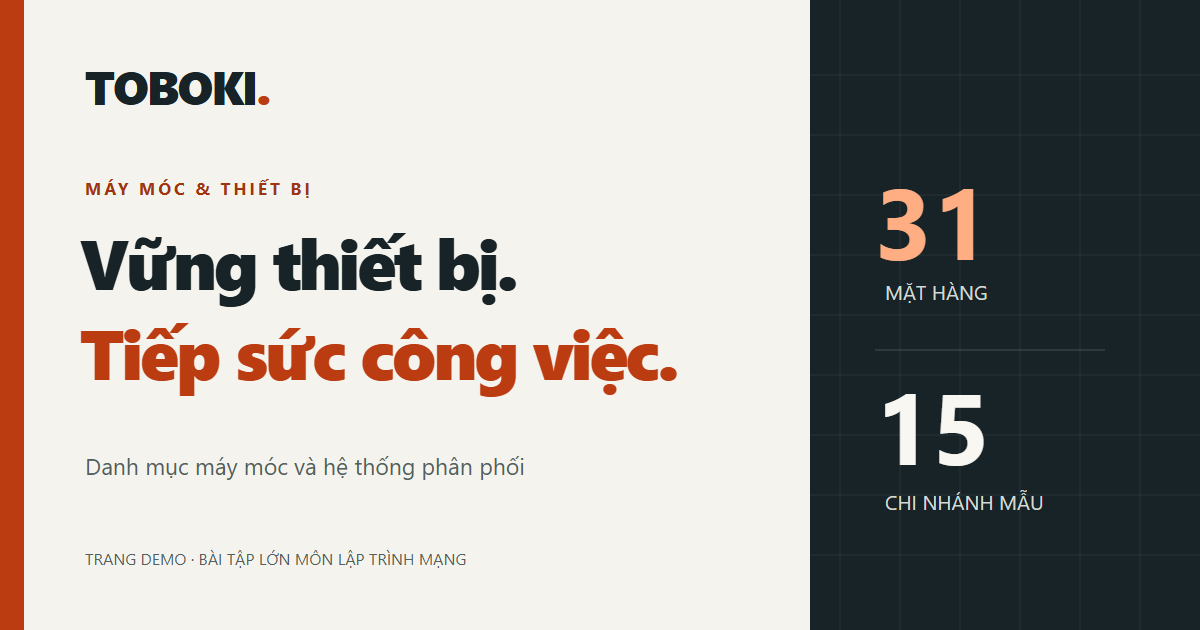
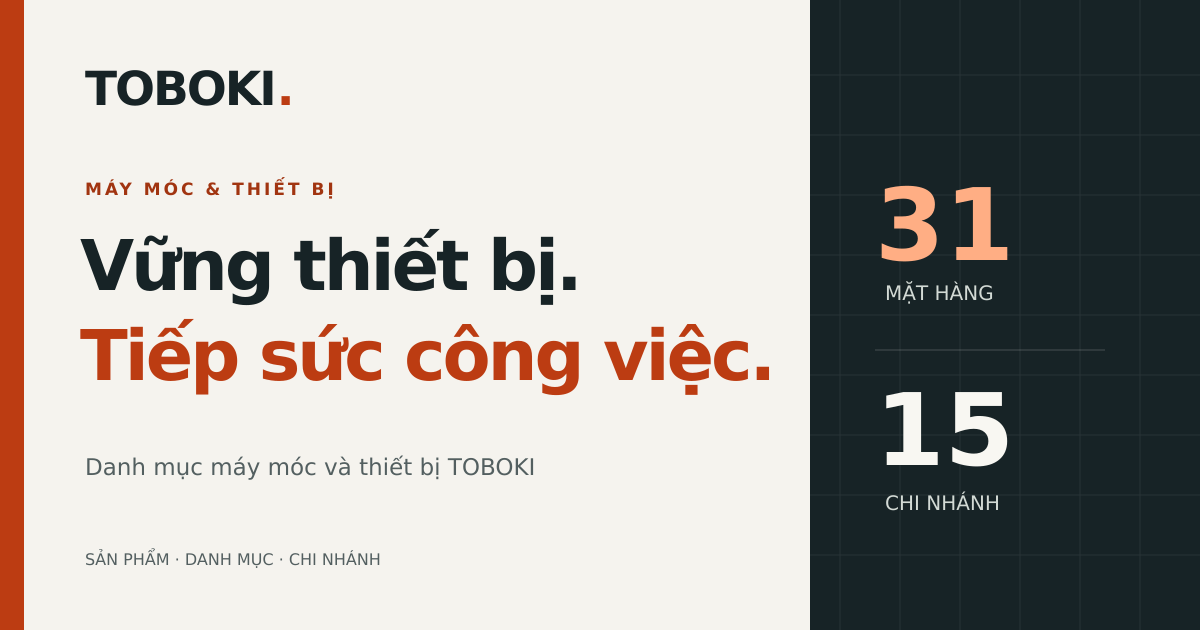
remove some unexceptable sentence

diff --git a/landing/src/index.css b/landing/src/index.css
@@ -29,7 +29,6 @@ section, footer { scroll-margin-top: 24px; }
 .skip-link:focus { top: 1rem; }
 .announcement { color: #f8f6ef; background: #172326; font-size: 10px; font-weight: 600; letter-spacing: .15em; }
 .announcement .page-width { display: flex; justify-content: space-between; gap: 12px; padding-block: 10px; }
-.announcement-note { color: #cbd0ca; letter-spacing: .04em; font-weight: 400; }
 .site-header { background: #fff; border-bottom: 1px solid #e7e8e2; }
 .header-inner { min-height: 94px; display: flex; align-items: center; justify-content: space-between; gap: 32px; }
 .wordmark { color: #172326; font-size: 36px; font-weight: 900; letter-spacing: -.07em; line-height: 1; flex-shrink: 0; }
@@ -59,9 +58,7 @@ section, footer { scroll-margin-top: 24px; }
 .hero-actions { display: flex; flex-wrap: wrap; gap: 22px; align-items: center; margin-top: 30px; }
 .text-link { display: inline-flex; align-items: center; gap: 12px; font-size: 12px; font-weight: 700; padding-block: 12px; }
 .text-link:hover { color: #bc3c12; text-decoration: underline; text-underline-offset: 5px; }
-.hero-footnote { margin-top: 28px; display: flex; align-items: center; gap: 8px; font-size: 10px; color: #5b6665; }
-.status-dot { display: inline-block; width: 6px; height: 6px; background: #bc3c12; border-radius: 50%; flex-shrink: 0; }
-.hero-visual { position: relative; min-height: 470px; background: #e6e8df; overflow: hidden; border-radius: 5px; }
+.hero-visual { position: relative; min-height: 470px; padding-bottom: 22px; background: #e6e8df; overflow: hidden; border-radius: 5px; }
 .hero-grid { position: absolute; inset: 0; background-image: linear-gradient(#87918420 1px, transparent 1px), linear-gradient(90deg, #87918420 1px, transparent 1px); background-size: 36px 36px; }
 .hero-backdrop-letter { position: absolute; inset: -90px 0 auto; text-align: center; font-size: 520px; font-weight: 900; line-height: 1.2; color: #c4cbbc90; }
 .visual-topline { position: relative; display: flex; justify-content: space-between; padding: 23px; color: #4a574c; font-size: 9px; letter-spacing: .12em; font-weight: 600; }
@@ -78,8 +75,6 @@ section, footer { scroll-margin-top: 24px; }
 .carousel-controls button:hover { background: #172326; border-color: #172326; color: #fff; }
 .carousel-previous svg { transform: rotate(180deg); }
 .slide-counter { font-variant-numeric: tabular-nums; }
-.hero-visual-footer { position: relative; display: flex; justify-content: space-between; gap: 8px; padding: 14px 23px 18px; font-size: 9px; color: #535f54; }
-.hero-visual-footer a { text-decoration: underline; text-underline-offset: 3px; }
 .section { padding-block: 84px; }
 .section-heading { display: flex; align-items: flex-end; justify-content: space-between; gap: 32px; margin-bottom: 34px; }
 .section-heading h2 { font-size: clamp(30px, 3.1vw, 43px); line-height: 1.15; letter-spacing: -.045em; font-weight: 750; margin: 0; }
@@ -122,34 +117,10 @@ section, footer { scroll-margin-top: 24px; }
 .product-price { margin-top: auto; }
 .product-price > span { display: block; color: #626c65; font-size: 9px; margin-bottom: 4px; }
 .product-price strong { display: block; font-size: 21px; font-weight: 750; letter-spacing: -.035em; }
-.product-credit { display: block; font-size: 9px; color: #68716a; margin-top: 15px; border-top: 1px solid #edf0e8; padding-top: 11px; line-height: 1.6; }
-.product-credit:hover { color: #a13410; text-decoration: underline; }
 .catalog-more { text-align: center; margin-top: 32px; }
-.catalog-note { max-width: 760px; margin: 22px auto 0; font-size: 10px; line-height: 1.8; color: #606a64; text-align: center; }
 .image-fallback { display: flex; flex-direction: column; height: 100%; align-items: center; justify-content: center; color: #43504a; }
 .image-fallback span { font-weight: 900; font-size: 22px; }
 .image-fallback small { font-size: 9px; margin-top: 6px; }
-.distribution-section { background: #172326; color: #f8f7f2; padding-block: 78px; }
-.distribution-section .eyebrow { color: #ffae84; }
-.distribution-top { display: grid; grid-template-columns: 1.2fr 1fr; gap: 80px; align-items: flex-end; }
-.distribution-top h2 { font-size: clamp(30px, 3.2vw, 44px); line-height: 1.2; letter-spacing: -.035em; font-weight: 750; margin: 0; }
-.distribution-top h2 span { color: #ffae84; }
-.distribution-top > p { font-size: 14px; line-height: 1.9; color: #bfc7c4; margin: 0 0 4px; max-width: 400px; }
-.system-stats { display: grid; grid-template-columns: repeat(3, 1fr); padding-block: 35px; margin-block: 35px 38px; border-block: 1px solid #ffffff26; }
-.system-stats > div { padding-left: 40px; border-left: 1px solid #ffffff26; }
-.system-stats > div:first-child { padding-left: 0; border: none; }
-.system-stats strong { font-size: 54px; font-weight: 650; line-height: 1.1; letter-spacing: -.05em; display: block; margin-bottom: 10px; }
-.system-stats strong span { font-size: 25px; color: #ffae84; padding-left: 10px; vertical-align: top; }
-.system-stats strong small { font-size: 27px; color: #ffae84; }
-.system-stats > div > span { font-size: 11px; color: #bfc7c4; }
-.distribution-flow { display: grid; grid-template-columns: repeat(3, 1fr); gap: 50px; padding: 0; list-style: none; }
-.flow-marker { position: relative; display: flex; align-items: center; gap: 12px; color: #ffae84; }
-.flow-marker::after { content: ''; display: block; flex: 1; height: 1px; margin-left: 10px; background: #ffffff2b; }
-.flow-marker > span { font-size: 10px; color: #bcc7c2; letter-spacing: .1em; }
-.distribution-flow h3 { font-size: 16px; font-weight: 650; margin-block: 18px 12px; }
-.distribution-flow p { max-width: 285px; font-size: 12px; line-height: 1.9; color: #bfc7c4; }
-.distribution-link { color: #ffae84; margin-top: 24px; }
-.distribution-link:hover { color: white; }
 .branches-section { background: #fff; }
 .branch-grid { display: grid; grid-template-columns: repeat(3, minmax(0, 1fr)); gap: 0 30px; padding: 0; list-style: none; }
 .branch-card { padding: 22px 0; border-top: 1px solid #e4e7df; display: flex; align-items: flex-start; gap: 16px; }
@@ -170,16 +141,6 @@ section, footer { scroll-margin-top: 24px; }
 .footer-phone { display: inline-flex; align-items: center; gap: 10px; font-size: 21px; font-weight: 700; color: #a13410; margin-bottom: 9px; }
 .footer-columns nav { display: flex; flex-direction: column; gap: 10px; font-size: 11px; color: #4c5952; }
 .footer-columns nav a:hover { color: #a13410; text-decoration: underline; }
-.image-credits { padding-block: 20px; border-top: 1px solid #d9dfd4; font-size: 11px; color: #4c5952; scroll-margin-top: 20px; }
-.image-credits summary { cursor: pointer; font-weight: 650; line-height: 1.9; }
-.image-credits summary span { font-weight: 400; margin-left: 14px; color: #5d6861; }
-.credits-intro { margin-top: 16px; max-width: 720px; line-height: 1.8; }
-.image-credits ul { margin-top: 16px; padding: 0; list-style: none; display: grid; grid-template-columns: 1fr 1fr; gap: 14px 35px; }
-.image-credits li { display: flex; gap: 12px; min-width: 0; }
-.credit-products { color: #a13410; min-width: 30px; font-size: 9px; padding-top: 2px; }
-.image-credits li > div { min-width: 0; }
-.image-credits li a { text-decoration: underline; text-underline-offset: 3px; overflow-wrap: anywhere; }
-.image-credits li p { margin-top: 4px; color: #626c65; }
 .footer-bottom { display: flex; justify-content: space-between; gap: 20px; border-top: 1px solid #d9dfd4; padding-block: 20px; color: #5d6861; font-size: 10px; }
 .footer-bottom a { font-weight: 600; white-space: nowrap; }
 @media (min-width: 1600px) { .page-width { width: min(1280px, calc(100% - 100px)); } }
@@ -199,7 +160,6 @@ section, footer { scroll-margin-top: 24px; }
   .product-grid { gap: 15px; }
   .product-info { padding: 16px; }
   .product-price strong { font-size: 19px; }
-  .distribution-top { gap: 40px; }
 }
 @media (max-width: 850px) {
   .header-inner { min-height: 85px; position: relative; flex-wrap: wrap; padding-block: 20px; gap: 0; }
@@ -213,7 +173,6 @@ section, footer { scroll-margin-top: 24px; }
   .hero-copy .eyebrow { font-size: 9px; letter-spacing: .1em; }
   .hero-description { font-size: 13px; margin-top: 19px; }
   .hero-actions { gap: 10px; margin-top: 22px; }
-  .hero-footnote { font-size: 9px; line-height: 1.7; align-items: baseline; margin-top: 15px; }
   .hero-visual { min-height: 395px; }
   .hero-image-wrap { height: 240px; width: 95%; }
   .visual-topline { padding: 18px 14px; font-size: 8px; }
@@ -223,16 +182,11 @@ section, footer { scroll-margin-top: 24px; }
   .equipment-name { font-size: 9px; }
   .carousel-controls { gap: 4px; }
   .carousel-controls button { width: 32px; }
-  .hero-visual-footer { padding-inline: 14px; flex-wrap: wrap; font-size: 8px; }
   .section { padding-block: 62px; }
   .section-heading { gap: 25px; }
   .section-heading > p { font-size: 12px; max-width: 285px; }
   .product-grid { grid-template-columns: repeat(3, minmax(0, 1fr)); }
   .product-image { padding: 30px 18px 15px; }
-  .distribution-top > p { font-size: 12px; }
-  .distribution-flow { gap: 25px; }
-  .system-stats strong { font-size: 45px; }
-  .system-stats > div { padding-left: 25px; }
   .branch-grid { grid-template-columns: repeat(2, minmax(0, 1fr)); }
   .footer-columns { gap: 25px; }
 }
@@ -240,7 +194,6 @@ section, footer { scroll-margin-top: 24px; }
   .page-width { width: calc(100% - 36px); }
   .announcement { font-size: 8px; letter-spacing: .08em; }
   .announcement .page-width { padding-block: 9px; }
-  .announcement-note { font-size: 8px; letter-spacing: 0; }
   .header-inner { padding-block: 18px; min-height: 80px; }
   .wordmark { font-size: 31px; }
   .wordmark small { font-size: 7px; }
@@ -252,11 +205,9 @@ section, footer { scroll-margin-top: 24px; }
   .hero-actions { gap: 16px; }
   .hero-actions .button { padding: 14px 17px; font-size: 12px; }
   .text-link { font-size: 11px; }
-  .hero-footnote { font-size: 9px; margin-top: 21px; }
   .hero-visual { min-height: 380px; }
   .hero-image-wrap { height: 245px; width: 85%; }
   .hero-backdrop-letter { top: -110px; font-size: 440px; }
-  .hero-visual-footer { flex-wrap: nowrap; padding-bottom: 15px; }
   .section { padding-block: 48px; }
   .section-heading { flex-direction: column; align-items: flex-start; gap: 17px; margin-bottom: 24px; }
   .section-heading h2 { font-size: 32px; }
@@ -286,26 +237,7 @@ section, footer { scroll-margin-top: 24px; }
   .product-model { font-size: 9px; margin-block: 7px 13px; }
   .product-price > span { font-size: 8px; }
   .product-price strong { font-size: 18px; }
-  .product-credit { font-size: 8px; margin-top: 11px; padding-top: 9px; }
   .catalog-more { margin-top: 24px; }
-  .catalog-note { font-size: 9px; text-align: left; margin-top: 18px; }
-  .distribution-section { padding-block: 48px; }
-  .distribution-top { grid-template-columns: 1fr; gap: 19px; }
-  .distribution-top h2 { font-size: 32px; }
-  .distribution-top > p { font-size: 12px; }
-  .system-stats { padding-block: 24px; margin-block: 27px; gap: 12px; }
-  .system-stats > div { padding-left: 11px; }
-  .system-stats strong { font-size: 36px; }
-  .system-stats strong span { font-size: 16px; padding-left: 3px; }
-  .system-stats strong small { font-size: 18px; }
-  .system-stats > div > span { font-size: 9px; line-height: 1.6; display: block; }
-  .distribution-flow { grid-template-columns: 1fr; gap: 26px; }
-  .distribution-flow li { display: grid; grid-template-columns: 62px 1fr; gap: 5px 15px; }
-  .flow-marker { grid-row: span 2; align-self: flex-start; margin-top: 4px; }
-  .flow-marker::after { display: none; }
-  .distribution-flow h3 { margin: 0; font-size: 15px; }
-  .distribution-flow p { max-width: 100%; font-size: 11px; }
-  .distribution-link { margin-top: 20px; }
   .branch-grid { grid-template-columns: 1fr; }
   .branch-card { padding-block: 18px; }
   .branch-card h3 { font-size: 13px; }
@@ -316,8 +248,6 @@ section, footer { scroll-margin-top: 24px; }
   .footer-columns { grid-template-columns: 1fr; padding-block: 30px; gap: 29px; }
   .footer-columns h3 { margin-bottom: 12px; }
   .footer-columns nav { display: grid; grid-template-columns: 1fr 1fr; }
-  .image-credits summary span { display: block; margin: 7px 0 0; font-size: 10px; }
-  .image-credits ul { grid-template-columns: 1fr; font-size: 10px; }
   .footer-bottom { font-size: 9px; gap: 15px; align-items: flex-start; line-height: 1.7; }
 }
 @media (prefers-reduced-motion: reduce) {

diff --git a/landing/src/components/Footer.tsx b/landing/src/components/Footer.tsx
@@ -1,24 +1,18 @@
 import company from '../data/company.json'
-import credits from '../data/image-credits.json'
-import { licenseUrl, systemLinks } from '../lib/catalog'
+import { systemLinks } from '../lib/catalog'
 import Icon from './Icon'
 
 export default function Footer() {
   const phone = company.hotline.replace(/[^\d+]/g, '')
   return <footer id="lien-he" className="site-footer">
     <div className="page-width">
-      <div className="contact-heading"><div><p className="eyebrow">05 / LIÊN HỆ</p><h2>Cùng kết nối<br />hệ thống phân phối.</h2></div>{systemLinks.admin && <a href={systemLinks.admin} className="button button-orange">Đăng nhập hệ thống <Icon name="arrow" /></a>}</div>
+      <div className="contact-heading"><div><p className="eyebrow">04 / LIÊN HỆ</p><h2>Liên hệ<br />TOBOKI.</h2></div>{systemLinks.admin && <a href={systemLinks.admin} className="button button-orange">Đăng nhập hệ thống <Icon name="arrow" /></a>}</div>
       <div className="footer-columns">
         <div><a className="wordmark footer-wordmark" href="#main">TOBOKI<span>.</span></a><p className="footer-company">{company.name}</p><address>{company.address}</address><p className="footer-tax">MST: {company.mst}</p></div>
-        <div><h3>Thông tin liên hệ mẫu</h3><a className="footer-phone" href={`tel:${phone}`}><Icon name="phone" size={19} />{company.hotline}</a><p>Thông tin từ dữ liệu mẫu của project.<br />Trang không tiếp nhận đơn đặt hàng.</p></div>
+        <div><h3>Thông tin liên hệ</h3><a className="footer-phone" href={`tel:${phone}`}><Icon name="phone" size={19} />{company.hotline}</a></div>
         <div><h3>Truy cập nhanh</h3><nav aria-label="Liên kết cuối trang"><a href="#san-pham">Sản phẩm</a><a href="#danh-muc">Danh mục thiết bị</a><a href="#chi-nhanh">Hệ thống chi nhánh</a>{systemLinks.branch && <a href={systemLinks.branch}>Đăng nhập chi nhánh ↗</a>}</nav></div>
       </div>
-      <details id="ghi-cong-anh" className="image-credits">
-        <summary>Ghi công ảnh · Wikimedia Commons <span>Ảnh minh họa, không đại diện chính xác cho model TOBOKI</span></summary>
-        <p className="credits-intro">Ảnh từ Wikimedia Commons được chuyển sang WebP và thu nhỏ để hiển thị. Tên tác giả, nguồn gốc và giấy phép được giữ theo hồ sơ ảnh của project.</p>
-        <ul>{credits.map((credit) => <li key={credit.source}><span className="credit-products">{credit.products.map((product) => product.id).join(', ')}</span><div><a href={credit.source} target="_blank" rel="noreferrer">{credit.title.replace(/^File:/, '')} ↗</a><p>{credit.artist} · <a href={licenseUrl(credit.license) ?? credit.source} target="_blank" rel="noreferrer">{credit.license}</a></p></div></li>)}</ul>
-      </details>
-      <div className="footer-bottom"><p>Trang demo cho bài tập lớn môn Lập trình mạng.</p><a href="#main">Về đầu trang ↑</a></div>
+      <div className="footer-bottom"><p>TOBOKI · Máy móc và thiết bị</p><a href="#main">Về đầu trang ↑</a></div>
     </div>
   </footer>
 }

diff --git a/landing/src/components/Hero.tsx b/landing/src/components/Hero.tsx
@@ -17,12 +17,11 @@ export default function Hero() {
       <div className="hero-copy">
         <p className="eyebrow"><span className="eyebrow-line" /> THIẾT BỊ CHO TỪNG CÔNG VIỆC</p>
         <h1 id="hero-title">Vững thiết bị.<br /><span>Tiếp sức</span><br />mọi công trình.</h1>
-        <p className="hero-description">Giới thiệu đại lý bán buôn máy móc, thiết bị TOBOKI. Từ máy hút bụi, máy tời đến thiết bị thi công, kết nối công ty với các chi nhánh qua hệ thống phân phối của nhóm.</p>
+        <p className="hero-description">Khám phá máy móc và thiết bị TOBOKI: máy hút bụi, máy tời, máy rửa xe, thiết bị thi công và phụ kiện.</p>
         <div className="hero-actions">
           <a className="button button-orange" href="#san-pham">Xem sản phẩm <Icon name="arrow" /></a>
           {systemLinks.admin && <a className="text-link" href={systemLinks.admin}>Đăng nhập hệ thống <span aria-hidden="true">↗</span></a>}
         </div>
-        <p className="hero-footnote"><span className="status-dot" /> Dữ liệu mẫu cho bài tập lớn môn Lập trình mạng</p>
       </div>
       <div className="hero-visual" role="region" aria-roledescription="bộ trình chiếu" aria-label="Sản phẩm TOBOKI" data-product-id={product.id} onKeyDown={(event) => {
         if (!(event.target instanceof HTMLButtonElement)) return
@@ -48,7 +47,6 @@ export default function Hero() {
             <button type="button" className="carousel-next" aria-label="Sản phẩm tiếp theo" aria-controls="hero-product-caption" onClick={() => moveSlide(1)}><Icon name="arrow" size={20} /></button>
           </div>
         </div>
-        <div className="hero-visual-footer"><span>Ảnh thiết bị mang tính minh họa</span><a href={product.image.source} target="_blank" rel="noreferrer">Nguồn ảnh ↗</a></div>
       </div>
     </div>
   </section>

diff --git a/landing/src/components/ProductCatalog.tsx b/landing/src/components/ProductCatalog.tsx
@@ -14,7 +14,7 @@ export default function ProductCatalog({ selectedCategory, onSelect }: { selecte
 
   return <section id="san-pham" className="section products-section" aria-labelledby="products-title">
     <div className="page-width">
-      <div className="section-heading"><div><p className="eyebrow">02 / SẢN PHẨM</p><h2 id="products-title" tabIndex={-1}>Thiết bị nổi bật.</h2></div><p>Khám phá 12 lựa chọn từ danh mục. Lọc theo nhóm để xem đầy đủ sản phẩm cùng loại.</p></div>
+      <div className="section-heading"><div><p className="eyebrow">02 / SẢN PHẨM</p><h2 id="products-title" tabIndex={-1}>Thiết bị nổi bật.</h2></div><p>Tìm thiết bị theo danh mục và xem thông tin từng sản phẩm.</p></div>
       <div className="catalog-toolbar">
         <div className="filter-list" role="group" aria-label="Lọc sản phẩm theo danh mục">
           <button type="button" aria-pressed={selectedCategory === 'all'} onClick={() => select('all')}>Tất cả</button>
@@ -24,7 +24,6 @@ export default function ProductCatalog({ selectedCategory, onSelect }: { selecte
       </div>
       <div className="product-grid">{visible.map((product) => <ProductCard key={product.id} product={product} />)}</div>
       {selectedCategory === 'all' && <div className="catalog-more"><button className="button button-outline" type="button" onClick={() => setShowAll(!showAll)}>{showAll ? 'Thu gọn về 12 sản phẩm' : `Xem toàn bộ ${products.length} sản phẩm`}<Icon name="arrow" size={18} /></button></div>}
-      <p className="catalog-note">Giá và thông tin lấy từ dữ liệu mẫu của nhóm, không phải báo giá hiện hành. Model và giá của TB29–TB31 là giả định; toàn bộ ảnh chỉ mang tính minh họa.</p>
     </div>
   </section>
 }

diff --git a/landing/index.html b/landing/index.html
@@ -4,16 +4,16 @@
     <meta charset="UTF-8" />
     <link rel="icon" type="image/svg+xml" href="/toboki.svg" />
     <meta name="viewport" content="width=device-width, initial-scale=1.0" />
-    <meta name="description" content="Khám phá thiết bị và hệ thống phân phối TOBOKI. Trang demo cho bài tập lớn môn Lập trình mạng." />
+    <meta name="description" content="Khám phá máy móc, thiết bị, danh mục sản phẩm và các chi nhánh TOBOKI." />
     <meta property="og:title" content="TOBOKI — Máy móc và thiết bị" />
-    <meta property="og:description" content="Giới thiệu sản phẩm và hệ thống phân phối. Trang demo bài tập lớn môn Lập trình mạng." />
+    <meta property="og:description" content="Máy móc, thiết bị, danh mục sản phẩm và thông tin liên hệ TOBOKI." />
     <meta property="og:type" content="website" />
     <meta property="og:locale" content="vi_VN" />
-    <meta property="og:site_name" content="TOBOKI · Demo Lập trình mạng" />
+    <meta property="og:site_name" content="TOBOKI" />
     <meta property="og:image" content="/social-preview.png" />
     <meta property="og:image:width" content="1200" />
     <meta property="og:image:height" content="630" />
-    <meta property="og:image:alt" content="TOBOKI: giới thiệu máy móc và hệ thống phân phối demo" />
+    <meta property="og:image:alt" content="TOBOKI: máy móc, thiết bị và chi nhánh" />
     <meta name="twitter:card" content="summary_large_image" />
     <title>TOBOKI — Máy móc và thiết bị</title>
   </head>

diff --git a/landing/src/components/Branches.tsx b/landing/src/components/Branches.tsx
@@ -3,7 +3,7 @@ import Icon from './Icon'
 
 export default function Branches() {
   return <section id="chi-nhanh" className="section branches-section" aria-labelledby="branches-title"><div className="page-width">
-    <div className="section-heading"><div><p className="eyebrow">04 / CHI NHÁNH</p><h2 id="branches-title">Một hệ thống.<br />Nhiều điểm kết nối.</h2></div><p>15 chi nhánh được cấu hình trong dữ liệu demo. Tên và địa chỉ dưới đây phục vụ minh họa cho hệ thống của nhóm.</p></div>
+    <div className="section-heading"><div><p className="eyebrow">03 / CHI NHÁNH</p><h2 id="branches-title">Một hệ thống.<br />Nhiều điểm kết nối.</h2></div><p>Thông tin các chi nhánh TOBOKI.</p></div>
     <ul className="branch-grid">{branches.map((branch, index) => <li key={branch.id} className="branch-card" data-branch-id={branch.id}><span className="branch-index">{(index + 1).toString().padStart(2, '0')}</span><div><h3>{branch.name}</h3><p><Icon name="pin" size={15} /><span>{branch.address}</span></p></div></li>)}</ul>
   </div></section>
 }

diff --git a/landing/src/components/ProductImage.tsx b/landing/src/components/ProductImage.tsx
@@ -11,14 +11,14 @@ type Props = {
 
 export default function ProductImage({ product, priority = false, sizes = '(max-width: 600px) 85vw, (max-width: 1000px) 40vw, 280px', className = '' }: Props) {
   const [failed, setFailed] = useState(false)
-  if (failed) return <div className={`image-fallback ${className}`} role="img" aria-label={`Chưa tải được ảnh minh họa ${product.name}`}><span>TOBOKI</span><small>Ảnh minh họa chưa tải được</small></div>
+  if (failed) return <div className={`image-fallback ${className}`} role="img" aria-label={`Chưa tải được ảnh ${product.name}`}><span>TOBOKI</span><small>Chưa tải được ảnh sản phẩm</small></div>
 
   return <img
     className={className}
     src={imageUrl(product.image.url, 480)}
     srcSet={`${imageUrl(product.image.url, 240)} 240w, ${imageUrl(product.image.url, 480)} 480w, ${imageUrl(product.image.url, 720)} 720w`}
     sizes={sizes}
-    alt={`Ảnh minh họa ${product.name}`}
+    alt={`Ảnh ${product.name}`}
     width="720"
     height="720"
     loading={priority ? 'eager' : 'lazy'}

diff --git a/landing/src/lib/catalog.ts b/landing/src/lib/catalog.ts
@@ -14,13 +14,6 @@ export function imageUrl(url: string, width: number) {
   return url.replace('/image/upload/', `/image/upload/c_limit,w_${width},f_auto,q_auto/`)
 }
 
-export function licenseUrl(license: string) {
-  if (license === 'CC0') return 'https://creativecommons.org/publicdomain/zero/1.0/'
-  if (license === 'Public domain') return 'https://creativecommons.org/publicdomain/mark/1.0/'
-  const match = /^CC (BY(?:-SA)?) ([\d.]+)(?: (us))?$/.exec(license)
-  return match ? `https://creativecommons.org/licenses/${match[1].toLowerCase()}/${match[2]}/${match[3] ? 'us/' : ''}` : undefined
-}
-
 function publicLink(value: string | undefined) {
   if (!value) return undefined
   try {

diff --git a/landing/src/App.tsx b/landing/src/App.tsx
@@ -3,7 +3,6 @@ import Header from './components/Header'
 import Hero from './components/Hero'
 import Categories from './components/Categories'
 import ProductCatalog from './components/ProductCatalog'
-import Distribution from './components/Distribution'
 import Branches from './components/Branches'
 import Footer from './components/Footer'
 
@@ -28,7 +27,6 @@ export default function App() {
       <Hero />
       <Categories onSelect={selectCategory} />
       <ProductCatalog selectedCategory={category} onSelect={selectCategory} />
-      <Distribution />
       <Branches />
     </main>
     <Footer />

diff --git a/landing/src/components/ProductCard.tsx b/landing/src/components/ProductCard.tsx
@@ -11,7 +11,6 @@ export default function ProductCard({ product }: { product: Product }) {
       <h3>{product.name}</h3>
       <p className="product-model">{product.model ? `Model: ${product.model}` : 'Phụ kiện thiết bị'}</p>
       <div className="product-price"><span>Giá bán lẻ tham khảo</span><strong>{formatPrice(product.retailPrice)}</strong></div>
-      <a className="product-credit" href={product.image.source} target="_blank" rel="noreferrer">Ảnh minh họa: {product.image.artist} ↗</a>
     </div>
   </article>
 }

diff --git a/landing/src/components/Header.tsx b/landing/src/components/Header.tsx
@@ -16,7 +16,7 @@ export default function Header() {
 
   return (
     <>
-      <div className="announcement"><div className="page-width"><span>THIẾT BỊ & GIẢI PHÁP PHÂN PHỐI</span><span className="announcement-note">Bản demo · Lập trình mạng</span></div></div>
+      <div className="announcement"><div className="page-width"><span>MÁY MÓC & THIẾT BỊ TOBOKI</span></div></div>
       <header className="site-header" onKeyDown={(event) => {
         if (event.key === 'Escape' && open) {
           setOpen(false)

diff --git a/landing/README.md b/landing/README.md
@@ -25,18 +25,18 @@ Nếu `npm` bị PowerShell chặn script, dùng `npm.cmd` thay cho `npm`.
 
 | Biến | Ý nghĩa | Local |
 |---|---|---|
-| `VITE_ADMIN_URL` | URL đầy đủ của trang công ty | `http://localhost:8080/admin/` |
-| `VITE_BRANCH_URL` | URL đầy đủ của một trang chi nhánh | `http://localhost:8081/branch/` |
+| `VITE_ADMIN_URL` | URL đầy đủ của trang công ty | Để trống |
+| `VITE_BRANCH_URL` | URL đầy đủ của một trang chi nhánh | Để trống |
 | `VITE_SITE_URL` | URL gốc landing sau deploy, tạo canonical/ảnh Open Graph tuyệt đối | Để trống |
 
-Lâm thay URL local bằng các URL HTTPS thực tế trong `.env.local` hoặc biến môi trường của tiến trình build.
+Điền các URL HTTPS thực tế trong `.env.local` hoặc biến môi trường của tiến trình build.
 Các biến `VITE_*` là thông tin công khai và được chốt vào file JavaScript/HTML **lúc build**.
 Đổi URL sau đó phải build lại; đổi trong development thì khởi động lại Vite.
 Link công ty/chi nhánh không hiển thị nếu biến tương ứng trống hoặc không phải URL HTTP(S).
 Không đặt mật khẩu, token hoặc khóa SSH vào biến Vite. Không commit file `.env.local`.
 
 Landing hiện thiết kế phục vụ tại đường dẫn gốc `/`, như phương án Caddy của nhóm.
-`VITE_SITE_URL` nên là URL gốc có dấu `/` cuối, ví dụ `https://demo.example.org/`.
+`VITE_SITE_URL` là URL gốc thực tế của landing, có dấu `/` cuối.
 Khi có biến này, HTML build có canonical, `og:url` và `og:image` tuyệt đối.
 Khi chưa có tên miền, giữ ảnh OG tương đối `/social-preview.png`; metadata công khai cần nghiệm thu lại sau deploy.
 
@@ -53,7 +53,8 @@ Khi chưa có tên miền, giữ ảnh OG tương đối `/social-preview.png`; 
 - Thông tin liên hệ từ `ui/lib/company.ts`; dữ liệu chi nhánh và chính sách phân phối phục vụ demo.
 - Model/giá của TB29–TB31 là giả định theo ghi chú seed.
 - Ảnh Wikimedia là ảnh minh họa, có thể khác hãng/model. Không dùng chúng để cam kết đặc tính thật.
-- Footer ghi rõ “Trang demo cho bài tập lớn môn Lập trình mạng”.
+- Trang chỉ hiển thị giới thiệu thiết bị, danh mục, sản phẩm, chi nhánh và liên hệ.
+- Không hiển thị quy trình nghiệp vụ, ghi chú demo, trích dẫn hoặc nguồn ảnh.
 
 Nguồn trích:
 
@@ -116,15 +117,14 @@ Thành phần bàn giao:
 |---|---|
 | `src/App.tsx` | Ghép các section, giữ danh mục đang chọn |
 | `src/components/Header.tsx` | Menu responsive; Escape đóng menu và trả focus |
-| `src/components/Hero.tsx` | Tiêu đề, hai CTA và bộ trình chiếu 31 sản phẩm; nút trước/sau cập nhật ảnh, tên, model, nguồn ảnh và bộ đếm |
+| `src/components/Hero.tsx` | Tiêu đề, hai CTA và bộ trình chiếu 31 sản phẩm; nút trước/sau cập nhật ảnh, tên, model và bộ đếm |
 | `src/components/Categories.tsx` | 7 thẻ danh mục chính và 3 nhóm mới |
 | `src/components/ProductCatalog.tsx` | Lọc dữ liệu tại trình duyệt, xem thêm/thu gọn |
-| `src/components/ProductCard.tsx` | Tên, model, định dạng tiền Việt, nguồn ảnh |
+| `src/components/ProductCard.tsx` | Tên, model và định dạng tiền Việt |
 | `src/components/ProductImage.tsx` | Ảnh responsive Cloudinary, lazy-load, alt và fallback |
-| `src/components/Distribution.tsx` | Quy mô dữ liệu và luồng báo thiếu → điều phối → xác nhận |
 | `src/components/Branches.tsx` | Danh sách 15 chi nhánh |
-| `src/components/Footer.tsx` | Liên hệ mẫu, demo disclaimer và đầy đủ ghi công ảnh |
-| `src/lib/catalog.ts` | Danh sách nổi bật, format giá, biến URL và link giấy phép |
+| `src/components/Footer.tsx` | Thông tin liên hệ và liên kết điều hướng |
+| `src/lib/catalog.ts` | Danh sách nổi bật, format giá và biến URL |
 | `src/index.css` | Tailwind, bố cục desktop/mobile, focus và reduced-motion |
 | `scripts/extract-data.mjs` | Trích SQL sang JSON có kiểm tra nguồn |
 | `vite.config.ts` | React + Tailwind plugin, metadata theo URL deploy |
@@ -136,7 +136,7 @@ Các icon và ảnh chia sẻ thương hiệu được dựng bằng SVG trong r
 
 ## 6. Ghi công ảnh
 
-Xem khối “Ghi công ảnh” ở footer hoặc `src/data/image-credits.json`.
+Hồ sơ ảnh được lưu tại `src/data/image-credits.json`, không hiển thị trên landing page.
 Mỗi ảnh có tác giả, link trang nguồn và giấy phép; source `scripts/images/credits.json` được giữ nguyên.
 Ảnh đã được chuyển WebP/thu nhỏ theo pipeline có sẵn của repo, không khẳng định là ảnh chụp sản phẩm TOBOKI.
 `public/social-preview.svg` là bản vector gốc của ảnh chia sẻ `public/social-preview.png`.
